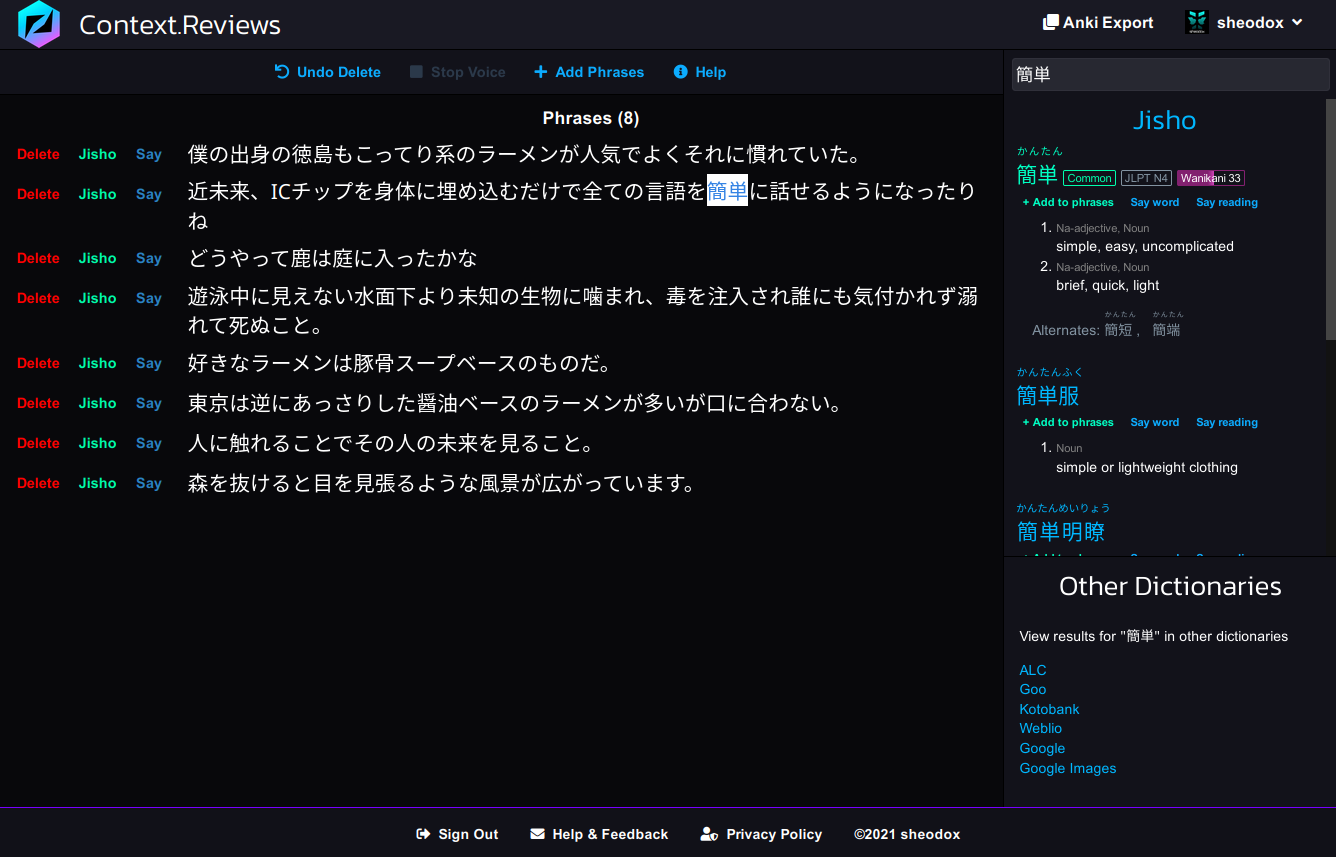
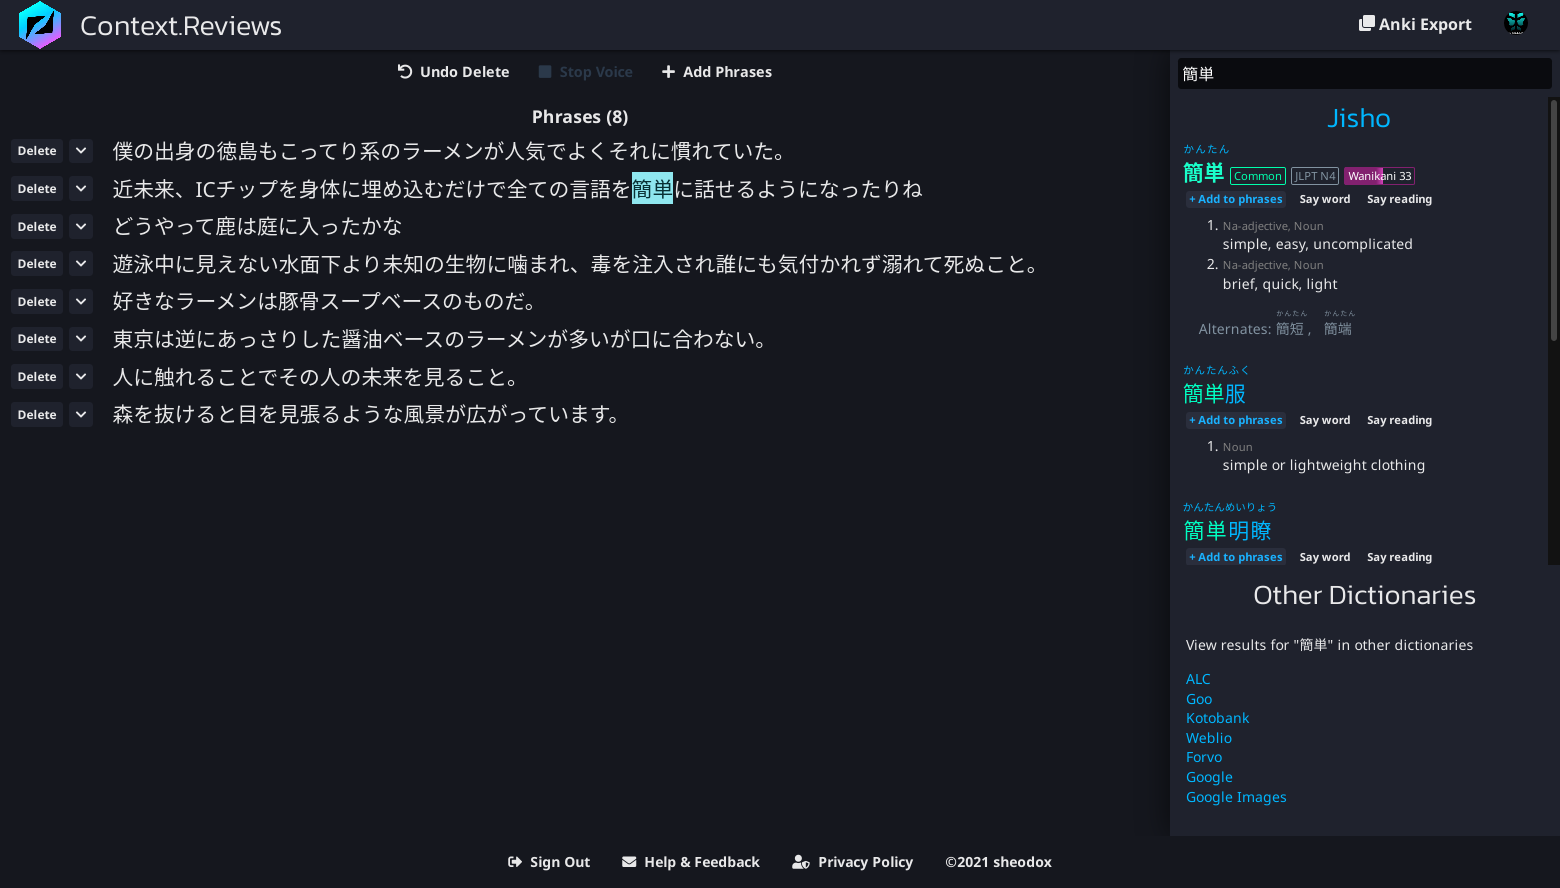
Updated the home page. This has much more succinct explanations and nicer spacing, it looks a lot more modern. Also updated the screenshot of the list. This also shows the in context cards.

diff --git a/public-src/javascripts/landing/DemoCard.svelte b/public-src/javascripts/landing/DemoCard.svelte
@@ -18,12 +18,12 @@
 
 	const cards = [
 		{ "id": "https://jisho.org/word/%E4%BA%BA%E6%B0%97", "word": "人気", "reading": "にんき", "context": "僕の出身の徳島もこってり系のラーメンが人気でよくそれに慣れていた。", "definition": { "word": "人気", "href": "https://jisho.org/word/%E4%BA%BA%E6%B0%97", "tags": [ "common", "jlpt-n3", "wanikani4" ], "alternateForms": [], "reading": "にんき", "meanings": [ { "preInfo": "Noun, No-adjective", "definition": "popularity, public favor", "seeAlso": [], "links": [], "info": "" }, { "preInfo": "Noun", "definition": "condition (e.g. market), tone, character, nature", "seeAlso": [], "links": [], "info": "" } ] }, "source": "jisho" },
-		{ "id": "https://jisho.org/word/%E7%B0%A1%E5%8D%98", "word": "簡単", "reading": "かんたん", "context": "近未来、ICチップを身体に埋め込むだけで全ての言語を簡単に話せるようになったりね", "definition": { "word": "簡単", "href": "https://jisho.org/word/%E7%B0%A1%E5%8D%98", "tags": [ "common", "jlpt-n4", "wanikani33" ], "alternateForms": [ { "reading": "かんたん", "word": "簡短" }, { "reading": "かんたん", "word": "簡端" } ], "reading": "かんたん", "meanings": [ { "preInfo": "Na-adjective, Noun", "definition": "simple, easy, uncomplicated", "seeAlso": [], "links": [], "info": "" }, { "preInfo": "", "definition": "brief, quick, light", "seeAlso": [], "links": [], "info": "" } ] }, "source": "jisho" },
-		{ "id": "https://jisho.org/word/%E8%BA%AB%E4%BD%93", "word": "身体", "reading": "しんたい", "context": "近未来、ICチップを身体に埋め込むだけで全ての言語を簡単に話せるようになったりね", "definition": { "word": "身体", "href": "https://jisho.org/word/%E8%BA%AB%E4%BD%93", "tags": [ "common" ], "alternateForms": [ { "reading": "しんだい", "word": "身体" }, { "reading": "しんてい", "word": "身体" } ], "reading": "しんたい", "meanings": [ { "preInfo": "Noun", "definition": "body, physical system, person", "seeAlso": [ "体 からだ" ], "links": [], "info": "" } ] }, "source": "jisho" },
+		{ cardStyle: 'context', wordHighlightRange: [26, 28], "id": "https://jisho.org/word/%E7%B0%A1%E5%8D%98", "word": "簡単", "reading": "かんたん", "context": "近未来、ICチップを身体に埋め込むだけで全ての言語を簡単に話せるようになったりね", "definition": { "word": "簡単", "href": "https://jisho.org/word/%E7%B0%A1%E5%8D%98", "tags": [ "common", "jlpt-n4", "wanikani33" ], "alternateForms": [ { "reading": "かんたん", "word": "簡短" }, { "reading": "かんたん", "word": "簡端" } ], "reading": "かんたん", "meanings": [ { "preInfo": "Na-adjective, Noun", "definition": "simple, easy, uncomplicated", "seeAlso": [], "links": [], "info": "" }, { "preInfo": "", "definition": "brief, quick, light", "seeAlso": [], "links": [], "info": "" } ] }, "source": "jisho" },
 		{ "id": "https://jisho.org/word/%E5%BA%AD", "word": "庭", "reading": "にわ", "context": "どうやって鹿は庭に入ったかな", "definition": { "word": "庭", "href": "https://jisho.org/word/%E5%BA%AD", "tags": [ "common", "jlpt-n5", "wanikani12" ], "alternateForms": [], "reading": "にわ", "meanings": [ { "preInfo": "Noun", "definition": "garden, yard, courtyard", "seeAlso": [], "links": [], "info": "" }, { "preInfo": "", "definition": "field (of action), area", "seeAlso": [], "links": [], "info": "" } ] }, "source": "jisho" },
+        { cardStyle: 'context', wordHighlightRange: [10, 12], "id": "https://jisho.org/word/%E8%BA%AB%E4%BD%93", "word": "身体", "reading": "しんたい", "context": "近未来、ICチップを身体に埋め込むだけで全ての言語を簡単に話せるようになったりね", "definition": { "word": "身体", "href": "https://jisho.org/word/%E8%BA%AB%E4%BD%93", "tags": [ "common" ], "alternateForms": [ { "reading": "しんだい", "word": "身体" }, { "reading": "しんてい", "word": "身体" } ], "reading": "しんたい", "meanings": [ { "preInfo": "Noun", "definition": "body, physical system, person", "seeAlso": [ "体 からだ" ], "links": [], "info": "" } ] }, "source": "jisho" },
 		{ "id": "https://jisho.org/word/%E6%9C%AA%E7%9F%A5", "word": "未知", "reading": "みち", "context": "遊泳中に見えない水面下より未知の生物に噛まれ、毒を注入され誰にも気付かれず溺れて死ぬこと。", "definition": { "word": "未知", "href": "https://jisho.org/word/%E6%9C%AA%E7%9F%A5", "tags": [ "common", "jlpt-n1" ], "alternateForms": [], "reading": "みち", "meanings": [ { "preInfo": "No-adjective, Noun", "definition": "not yet known, unknown, strange", "seeAlso": [], "links": [], "info": "" } ] }, "source": "jisho" },
 		{ "id": "https://jisho.org/word/%E8%B1%9A%E9%AA%A8", "word": "豚骨", "reading": "とんこつ", "context": "好きなラーメンは豚骨スープベースのものだ。", "definition": { "word": "豚骨", "href": "https://jisho.org/word/%E8%B1%9A%E9%AA%A8", "tags": [], "alternateForms": [], "reading": "とんこつ", "meanings": [ { "preInfo": "Noun", "definition": "dish made with pork belly and bones, simmered with miso, sake, vegetables, etc. (from Kagoshima)", "seeAlso": [], "links": [], "info": "" } ] }, "source": "jisho" },
-		{ "id": "https://jisho.org/word/%E3%81%82%E3%81%A3%E3%81%95%E3%82%8A", "word": "あっさり", "reading": "あっさり", "context": "東京は逆にあっさりした醤油ベースのラーメンが多いが口に合わない。", "definition": { "word": "あっさり", "href": "https://jisho.org/word/%E3%81%82%E3%81%A3%E3%81%95%E3%82%8A", "tags": [ "common", "jlpt-n1" ], "alternateForms": [ { "reading": "アッサリ", "word": "アッサリ" } ], "reading": "あっさり", "meanings": [ { "preInfo": "Adverb, Adverb taking the 'to' particle, Suru verb", "definition": "easily, readily, quickly, flatly (refuse)", "seeAlso": [], "links": [], "info": "Onomatopoeic or mimetic word" }, { "preInfo": "", "definition": "lightly (seasoned food, applied make-up, etc.), plainly, simply", "seeAlso": [], "links": [], "info": "Onomatopoeic or mimetic word" } ] }, "source": "jisho" },
+		{ cardStyle: 'context', wordHighlightRange: [5, 9], "id": "https://jisho.org/word/%E3%81%82%E3%81%A3%E3%81%95%E3%82%8A", "word": "あっさり", "reading": "あっさり", "context": "東京は逆にあっさりした醤油ベースのラーメンが多いが口に合わない。", "definition": { "word": "あっさり", "href": "https://jisho.org/word/%E3%81%82%E3%81%A3%E3%81%95%E3%82%8A", "tags": [ "common", "jlpt-n1" ], "alternateForms": [ { "reading": "アッサリ", "word": "アッサリ" } ], "reading": "あっさり", "meanings": [ { "preInfo": "Adverb, Adverb taking the 'to' particle, Suru verb", "definition": "easily, readily, quickly, flatly (refuse)", "seeAlso": [], "links": [], "info": "Onomatopoeic or mimetic word" }, { "preInfo": "", "definition": "lightly (seasoned food, applied make-up, etc.), plainly, simply", "seeAlso": [], "links": [], "info": "Onomatopoeic or mimetic word" } ] }, "source": "jisho" },
 		{ "id": "https://jisho.org/word/%E6%9C%AA%E6%9D%A5", "word": "未来", "reading": "みらい", "context": "人に触れることでその人の未来を見ること。", "definition": { "word": "未来", "href": "https://jisho.org/word/%E6%9C%AA%E6%9D%A5", "tags": [ "common", "jlpt-n3", "wanikani7" ], "alternateForms": [], "reading": "みらい", "meanings": [ { "preInfo": "Noun, No-adjective", "definition": "the future (usually distant)", "seeAlso": [], "links": [], "info": "" }, { "preInfo": "", "definition": "future tense", "seeAlso": [], "links": [], "info": "" }, { "preInfo": "", "definition": "the world to come", "seeAlso": [], "links": [], "info": "" }, { "preInfo": "Wikipedia definition", "definition": "Future", "seeAlso": [], "links": [ { "text": "Read “Future” on English Wikipedia", "url": "http://en.wikipedia.org/wiki/Future?oldid=495475617" }, { "text": "Read “未来” on Japanese Wikipedia", "url": "http://ja.wikipedia.org/wiki/未来?oldid=42589705" } ], "info": "" } ] }, "source": "jisho" },
 		{ "id": "https://jisho.org/word/%E8%A6%8B%E5%BC%B5%E3%82%8B", "word": "見張る", "reading": "みはる", "context": "森を抜けると目を見張るような風景が広がっています。", "definition": { "word": "見張る", "href": "https://jisho.org/word/%E8%A6%8B%E5%BC%B5%E3%82%8B", "tags": [ "common" ], "alternateForms": [ { "reading": "みはる", "word": "見はる" }, { "reading": "みはる", "word": "瞠る" } ], "reading": "みはる", "meanings": [ { "preInfo": "Godan verb with ru ending, Transitive verb", "definition": "to stand watch, to stand guard, to look out", "seeAlso": [], "links": [], "info": "Only applies to 見張る, Only applies to 見はる" }, { "preInfo": "", "definition": "to open (one's eyes) wide", "seeAlso": [ "目を見張る" ], "links": [], "info": "" } ] }, "source": "jisho" },
 		{ "id": "https://jisho.org/word/%E9%A2%A8%E6%99%AF", "word": "風景", "reading": "ふうけい", "context": "森を抜けると目を見張るような風景が広がっています。", "definition": { "word": "風景", "href": "https://jisho.org/word/%E9%A2%A8%E6%99%AF", "tags": [ "common", "jlpt-n3" ], "alternateForms": [], "reading": "ふうけい", "meanings": [ { "preInfo": "Noun, No-adjective", "definition": "scenery, scene, landscape, view, sight", "seeAlso": [], "links": [], "info": "" }, { "preInfo": "", "definition": "scene (e.g. of a crime)", "seeAlso": [], "links": [], "info": "" } ] }, "source": "jisho" },

diff --git a/public-src/javascripts/landing/Pitch.svelte b/public-src/javascripts/landing/Pitch.svelte
@@ -1,53 +1,75 @@
 <style>
-    .panel {
-        margin: 1rem;
-		padding: 1rem;
-		display: flex;
-		flex-direction: column;
-		align-items: center;
-		background: transparent;
-    }
 	h1 {
-		text-align: center;
-		font-size: 2.75rem;
+		font-size: var(--shdx-font-size-11);
 		margin: 0;
 	}
-    h2 {
-		font-size: 2.5rem;
-		text-align: center;
+	h2 {
+		font-size: var(--shdx-font-size-9);
 		margin: 0;
 	}
-	* + h2, * + h1 {
-		margin-top: 2rem;
+	video, .pitch :global(img) {
+		max-width: 100%;
 	}
-    video, .panel :global(img) {
-        max-width: 100%;
-        border: 1px solid var(--shdx-accent-purple);
-    }
-    .outlined {
-        border: 1px solid var(--shdx-accent-purple);
-    }
+	.outlined, video, .pitch :global(img) {
+		box-shadow: var(--shdx-shadow-5), var(--shdx-shadow-1);
+		border-radius: 15px;
+		overflow: hidden;
+	}
 	.row {
 		display: flex;
-		align-items: start;
+		flex-direction: row;
+		justify-content: center;
 		flex-shrink: 0;
 	}
 	.row > * {
 		flex: 1;
 		flex-shrink: 0;
-        max-width: 40rem;
+		max-width: 40rem;
 		margin: 1rem 2.5rem;
 	}
+	.sub-title {
+		font-size: var(--shdx-font-size-7);
+	}
+	p {
+		max-width: 50rem;
+		font-size: 1.1rem;
+		line-height: 1.7;
+	}
+	p + :global(picture), p + video {
+		margin-top: var(--shdx-spacing-8);
+	}
+	section {
+		padding-top: var(--shdx-spacing-10);
+		padding-bottom: var(--shdx-spacing-10);
+		width: 100vw;
+        display: flex;
+        flex-direction: column;
+		align-items: center;
+	}
+	section:nth-child(even) {
+		background: var(--shdx-gray-800);
+	}
+
 	@media (max-width: 800px) {
+		h1 {
+			font-size: var(--shdx-font-size-8);
+		}
+		h2 {
+			font-size: var(--shdx-font-size-7);
+		}
+		.sub-title {
+			font-size: var(--shdx-font-size-6);
+		}
 		.row {
 			flex-direction: column;
 			align-items: center;
 			margin: 0;
+			padding-top: var(--shdx-spacing-3);
 		}
 		.row > * {
 			margin: 0;
 		}
-        .panel {
+		.pitch {
 			padding: 0;
 			margin: 0;
 		}
@@ -55,101 +77,103 @@
 			width: auto;
 		}
 		p {
+			max-width: 90vw;
+			margin-left: auto;
+			margin-right: auto;
+		}
+		aside#demo-cards {
 			max-width: 95vw;
 		}
 	}
-    p {
-		max-width: 50rem;
-		font-size: 1.1rem;
-		line-height: 1.7;
-		text-align: center;
-	}
 	aside#demo-cards {
 		width: 25rem;
-		max-width: 95vw;
 	}
 	#try-me {
-		margin: 0;
 		background: var(--shdx-accent-gradient);
 	}
 </style>
 
-<div class="panel">
-	<div class="row">
+<div class="pitch has-inline-links">
+	<section class="row align-items-center">
 		<div>
 			<h1>Study Japanese Using Anything</h1>
 			<div>
-				<p>
-					Context.Reviews makes learning Japanese more interesting by helping you learn the vocabulary
-					you encounter! Words you encounter in native material are more memorable than drilling pre-made
-					decks, not to mention more fun!
-				</p>
-				<p>
-					As you're reading any Japanese material of your choosing, look up sentences containing words you don't yet know
-					on <ExternalLink href="https://jisho.org">Jisho.org</ExternalLink>, then come back here to quickly create
-					a beautiful <ExternalLink href="https://apps.ankiweb.net/">Anki flashcard deck</ExternalLink> out of everything you just learned!
+				<p class="sub-title">
+					Study the words you want from the native material you like to read.
 				</p>
 			</div>
 		</div>
 
 		<aside id="demo-cards" class="outlined">
 			<DemoCard />
-			<p id="try-me">
+			<p id="try-me" class="m-0 text-align-center">
 				<Icon icon="arrow-up" />
 				Try me
 				<Icon icon="arrow-up" />
 			</p>
 		</aside>
-	</div>
+	</section>
 
-	<h2>
-		Effortlessly Create Anki Cards
-	</h2>
-	<p>
-		Context.Reviews help you create <ExternalLink href="https://apps.ankiweb.net/">Anki flashcards</ExternalLink> just by selecting the unknown words in each context sentence you looked up.
-		Making good Anki cards usually takes time, but this makes it quick and easy!
-	</p>
-	<p>
-		Definitions are automatically pulled from Jisho, and your context sentence is always included on the card to make understanding the definition in context easier and more memorable!
-		You're also able to customize everything about the cards so you're not limited to Jisho definitions!
-	</p>
-	<video muted autoplay loop controls src={asset('videos/anki-export-demo.mp4')} />
+	<section>
+		<h2>
+			Effortlessly Create Anki Cards
+		</h2>
+		<p>
+			Read whatever Japanese material you like and look up sentences containing words you don't yet know
+			on <ExternalLink href="https://jisho.org">Jisho.org</ExternalLink> and the Context.Reviews browser extension will
+			keep track of what you searched. When you're ready come back here to create
+			a beautiful <ExternalLink href="https://apps.ankiweb.net/">Anki flashcard deck</ExternalLink> out of everything you just learned!
+		</p>
+		<p>
+			Create Anki cards just by selecting a word.
+			Definitions are pulled automatically from <ExternalLink href="https://jisho.org">Jisho</ExternalLink>, and you can customize it how you want.
+		</p>
 
-	<h2>
-		Automatically Record Searches
-	</h2>
+		<video muted autoplay loop controls src={asset('videos/anki-export-demo.mp4')} />
+	</section>
 
-	<p>
-		Phrases you look up on Jisho will automatically get recorded to Context.Reviews with a browser extension.
-		As you're reading you can look up unknown words without having to write anything down to study later.
-	</p>
-	<Image src="images/extension-demo" alt="demo screenshot of the browser extension on Jisho.org"/>
+	<section>
+		<h2>Study Words in Isolation or in Context</h2>
+		<div class="f-row f-wrap justify-content-center">
+			<div class="m-6">
+				<StyleCard variant="word" />
+			</div>
+			<div class="m-6">
+				<StyleCard variant="context" />
+			</div>
+		</div>
+	</section>
 
-	<h2>
-		Look Back At Your Searches
-	</h2>
+	<section>
+		<h2>
+			Automatically Record Searches
+		</h2>
 
-	<p>
-		After you're done reading, you can look back at everything you had searched and review before creating Anki cards.
-	</p>
-	<p>
-		Just like the Anki Export wizard selected text will pull definitions from Jisho, and gives you quick links to some other popular dictionary and search websites.
-	</p>
-	<Image src="images/list-demo" alt="demo screenshot of the phrase list" />
+		<p>
+			Phrases you look up on Jisho will automatically get saved with the Context.Reviews browser extension,
+			meaning you can just focus on reading until you're ready to create your Anki deck!
+		</p>
+		<Image src="images/extension-demo" alt="demo screenshot of the browser extension on Jisho.org"/>
+	</section>
 
-	<h2>
-		Add Phrases In Bulk
-	</h2>
-	<p>
-		If you don't want to use the browser extension, or want to import a bunch of phrases at once, you can also add phrases manually in bulk!
-	</p>
+	<section>
+		<h2>
+			Look Back At Your Searches
+		</h2>
 
-	<Image src="images/bulk-add-phrase-demo" alt="demo screenshot of the bulk phrase addition dialog" />
+		<p>
+			Manage your saved searches at any time.
+			Selecting text will show definitions from Jisho and give you quick links to some other popular dictionaries and websites.
+		</p>
+		<Image src="images/list-demo" alt="demo screenshot of the phrase list" />
+	</section>
 
-	<h1>
-		Start Studying With Your Own Decks
-	</h1>
-	<GetStarted />
+	<section>
+		<h1>
+			Start Studying With Your Own Decks
+		</h1>
+		<GetStarted />
+	</section>
 </div>
 
 <script>
@@ -159,4 +183,5 @@
 	import Image from '../Image.svelte';
 	import {Icon} from 'sheodox-ui';
 	import {asset} from '../assets';
+	import StyleCard from "../export-app/StyleCard.svelte";
 </script>

diff --git a/public-src/javascripts/export-app/StyleCard.svelte b/public-src/javascripts/export-app/StyleCard.svelte
@@ -27,17 +27,23 @@
     .text-shape.highlight-text {
         background: var(--shdx-blue-300);
     }
+    .short, .medium, .long {
+        border-radius: 5px;
+        overflow: hidden;
+        margin-right: 1px;
+    }
     .line {
         display: flex;
         flex-direction: row;
         flex-wrap: wrap;
+        align-self: start;
     }
 </style>
 
 <div class="card m-3 p-3">
     <div class="front f-row justify-content-center">
         {#if variant === 'word'}
-            <div class="text-shape highlight-text short"></div>
+            <div class="text-shape highlight-text line short"></div>
         {:else}
             <div class="line">
                 <div class="text-shape text medium"></div>
